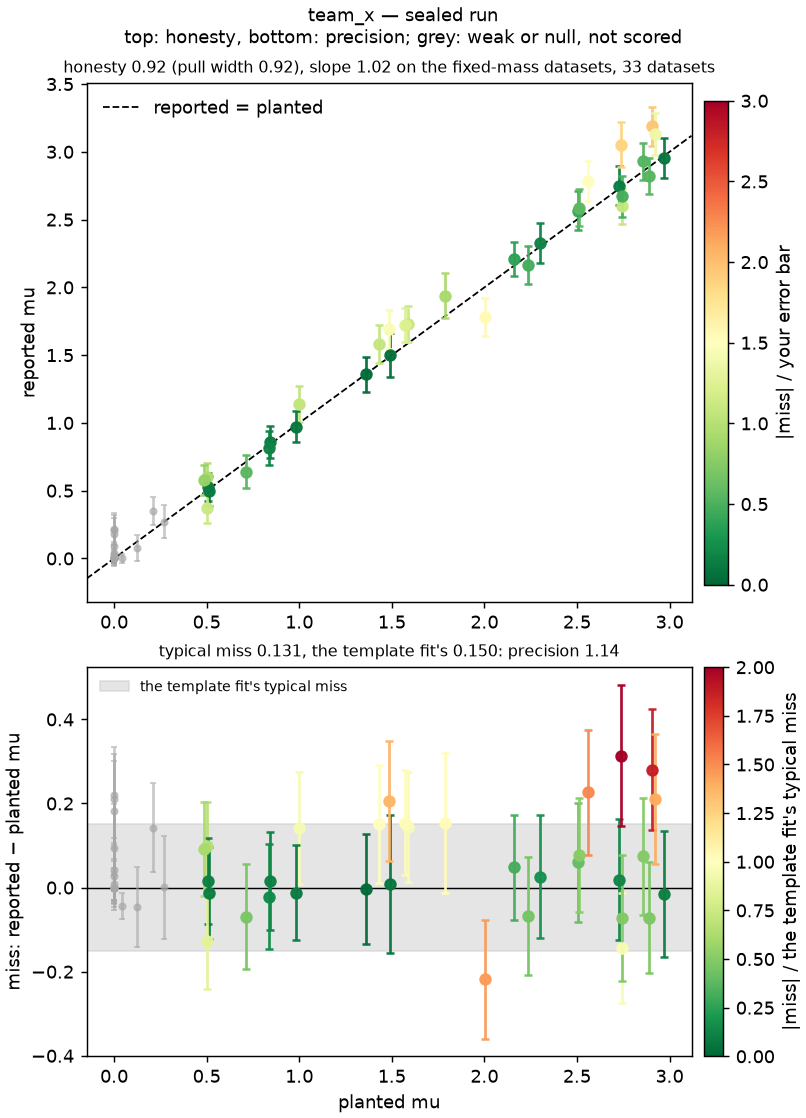
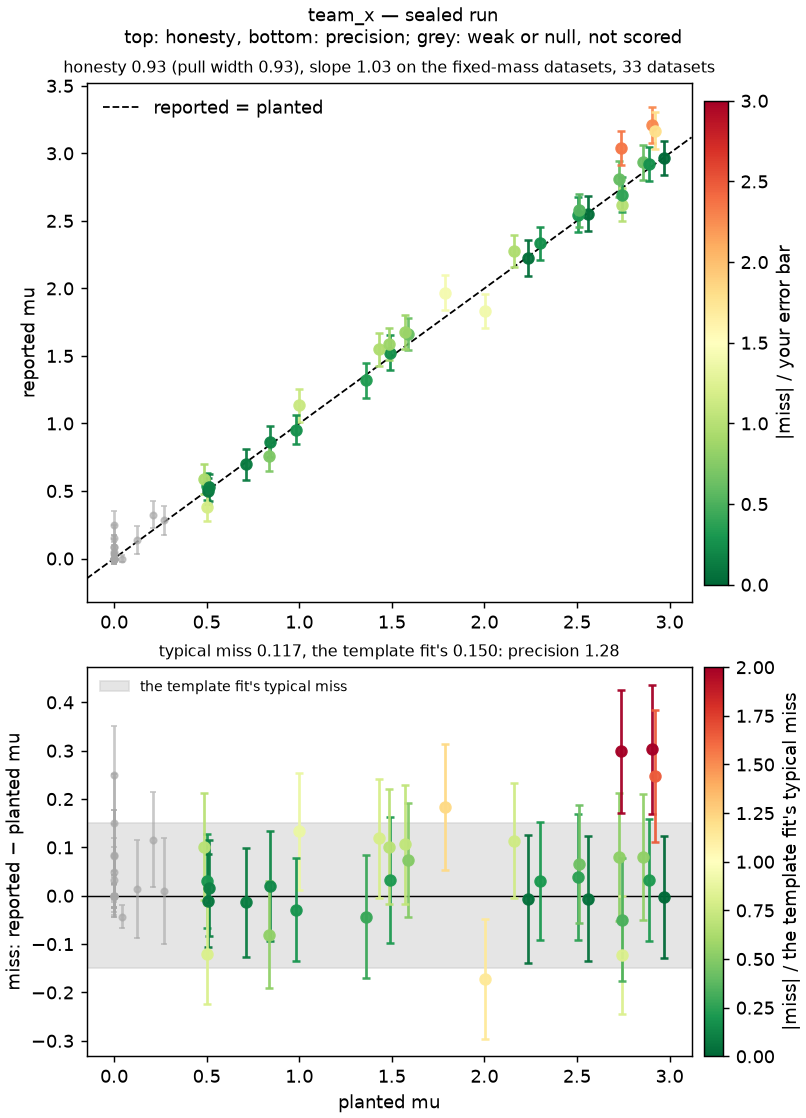
Hackathon leaderboard: sealed run of 2026-10-15 11:22 UTC

diff --git a/README.md b/README.md
@@ -50,30 +50,35 @@ Personal access tokens); from your laptop it is your usual push.
 ## Leaderboard
 
 <!-- leaderboard -->
-_Sealed run of 2026-10-15 10:58 UTC: each team's latest submission on the [issue](https://github.com/andrzejnovak/hsf-india-hww/issues/1), on 51 sealed datasets, the Higgs mass at 125 GeV in all of them and μ and the background rate planted anew in each._
+_Sealed run of 2026-10-15 11:22 UTC: each team's latest submission on the [issue](https://github.com/andrzejnovak/hsf-india-hww/issues/1), on 51 sealed datasets, the Higgs mass at 125 GeV in all of them and μ and the background rate planted anew in each._
 
 | # | team                                                              | score | precision | honesty | typical miss μ | σ μ   | pull width μ | submitted                                                                                                           |
 |---|-------------------------------------------------------------------|-------|-----------|---------|----------------|-------|--------------|---------------------------------------------------------------------------------------------------------------------|
-| 1 | [Horizon](https://github.com/AnushSingla/horizon-hsf-workshop)    | 111   | 1.26      | 0.88    | 0.119          | 0.125 | 0.88         | [458fcb0](https://github.com/AnushSingla/horizon-hsf-workshop/tree/458fcb0ae83d) 2026-10-15 09:05 by AnushSingla    |
-| 2 | [Hack-404](https://github.com/shaurya-cd/Hack-404)                | 109   | 1.24      | 0.88    | 0.121          | 0.129 | 0.88         | [0909838](https://github.com/shaurya-cd/Hack-404/tree/0909838) 2026-10-15 07:18 by shaurya-cd                       |
-| 3 | [Pilot](https://github.com/ishandhull2953/hww-hackathon)          | 108   | 1.22      | 0.88    | 0.123          | 0.103 | 1.13         | [dff9a69](https://github.com/ishandhull2953/hww-hackathon/tree/dff9a69) 2026-10-15 09:37 by ishandhull2953          |
-| 4 | [Pilots](https://github.com/ishandhull2953/hww-hackathon)         | 108   | 1.22      | 0.88    | 0.123          | 0.103 | 1.13         | [dff9a69](https://github.com/ishandhull2953/hww-hackathon/tree/dff9a69996a9) 2026-10-15 10:31 by ishandhull2953     |
-| 5 | [team_x](https://github.com/gauriaggarwal31/hsf-india-hww-team_x) | 105   | 1.14      | 0.92    | 0.131          | 0.135 | 0.92         | [46fac17](https://github.com/gauriaggarwal31/hsf-india-hww-team_x/tree/46fac17) 2026-10-15 10:53 by gauriaggarwal31 |
+| 1 | [team_x](https://github.com/gauriaggarwal31/hsf-india-hww-team_x) | 119   | 1.28      | 0.93    | 0.117          | 0.121 | 0.93         | [350c714](https://github.com/gauriaggarwal31/hsf-india-hww-team_x/tree/350c714) 2026-10-15 11:12 by gauriaggarwal31 |
+| 2 | [Horizon](https://github.com/AnushSingla/horizon-hsf-workshop)    | 111   | 1.26      | 0.88    | 0.119          | 0.125 | 0.88         | [458fcb0](https://github.com/AnushSingla/horizon-hsf-workshop/tree/458fcb0ae83d) 2026-10-15 09:05 by AnushSingla    |
+| 3 | [Hack-404](https://github.com/shaurya-cd/Hack-404)                | 109   | 1.24      | 0.88    | 0.121          | 0.129 | 0.88         | [0909838](https://github.com/shaurya-cd/Hack-404/tree/0909838) 2026-10-15 07:18 by shaurya-cd                       |
+| 4 | [Pilot](https://github.com/ishandhull2953/hww-hackathon)          | 108   | 1.22      | 0.88    | 0.123          | 0.103 | 1.13         | [dff9a69](https://github.com/ishandhull2953/hww-hackathon/tree/dff9a69) 2026-10-15 09:37 by ishandhull2953          |
+| 5 | [Pilots](https://github.com/ishandhull2953/hww-hackathon)         | 108   | 1.22      | 0.88    | 0.123          | 0.103 | 1.13         | [dff9a69](https://github.com/ishandhull2953/hww-hackathon/tree/dff9a69996a9) 2026-10-15 10:31 by ishandhull2953     |
 | 6 | [baseline-mt](https://github.com/andrzejnovak/hsf-india-hww)      | 98    | 1.00      | 0.98    | 0.150          | 0.144 | 0.98         | [52ad132](https://github.com/andrzejnovak/hsf-india-hww/tree/52ad132c99de) 2026-10-14 08:25 by andrzejnovak         |
 | 7 | [baseline-nn](https://github.com/andrzejnovak/hsf-india-hww)      | 78    | 0.84      | 0.94    | 0.179          | 0.154 | 1.07         | [c549c28](https://github.com/andrzejnovak/hsf-india-hww/tree/c549c28882b3) 2026-10-14 08:26 by andrzejnovak         |
 
 <details>
-<summary><b>Earlier submissions</b> (2): by team, newest first, with the score each had</summary>
+<summary><b>Earlier submissions</b> (3): by team, newest first, with the score each had</summary>
 
 | team                                                              | score | precision | honesty | typical miss μ | σ μ   | pull width μ | submitted                                                                                                           |
 |-------------------------------------------------------------------|-------|-----------|---------|----------------|-------|--------------|---------------------------------------------------------------------------------------------------------------------|
-| [Pilots](https://github.com/ishandhull2953/hww-hackathon)         | 98    | 1.00      | 0.98    | 0.150          | 0.144 | 0.98         | [69e717a](https://github.com/ishandhull2953/hww-hackathon/tree/69e717a) 2026-10-15 08:29 by ishandhull2953          |
+| [team_x](https://github.com/gauriaggarwal31/hsf-india-hww-team_x) | 105   | 1.14      | 0.92    | 0.131          | 0.135 | 0.92         | [46fac17](https://github.com/gauriaggarwal31/hsf-india-hww-team_x/tree/46fac17) 2026-10-15 10:53 by gauriaggarwal31 |
 | [team_x](https://github.com/gauriaggarwal31/hsf-india-hww-team_x) | 103   | 1.04      | 0.99    | 0.144          | 0.138 | 1.01         | [d1f83a7](https://github.com/gauriaggarwal31/hsf-india-hww-team_x/tree/d1f83a7) 2026-10-15 09:07 by gauriaggarwal31 |
+| [Pilots](https://github.com/ishandhull2953/hww-hackathon)         | 98    | 1.00      | 0.98    | 0.150          | 0.144 | 0.98         | [69e717a](https://github.com/ishandhull2953/hww-hackathon/tree/69e717a) 2026-10-15 08:29 by ishandhull2953          |
 
 </details>
 
 <details>
 <summary><b>Recovery plots</b>, per team: honesty on top, each dataset coloured by its pull; precision below, each miss against the template fit's typical miss</summary>
+
+**team_x** (score 119)
+
+![team_x](results/team_x.png)
 
 **Horizon** (score 111)
 
@@ -90,10 +95,6 @@ _Sealed run of 2026-10-15 10:58 UTC: each team's latest submission on the [issue
 **Pilots** (score 108)
 
 ![Pilots](results/Pilots.png)
-
-**team_x** (score 105)
-
-![team_x](results/team_x.png)
 
 **baseline-mt** (score 98)
 
